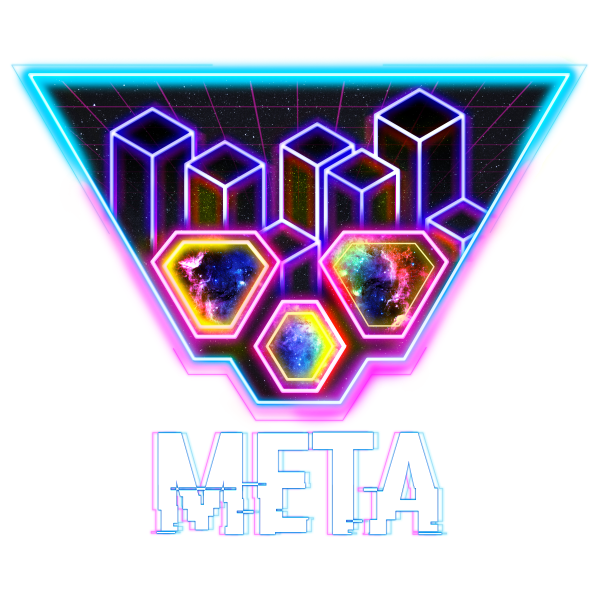
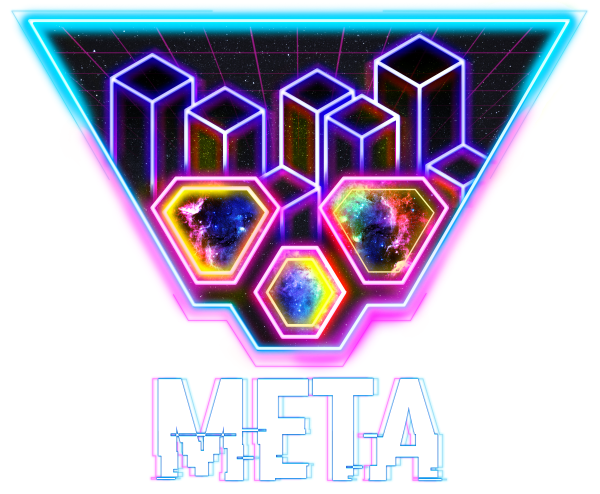
members v1

diff --git a/src/views/Trombi.vue b/src/views/Trombi.vue
@@ -1,0 +1,42 @@
+<template id="home">
+  <v-container fluid justify-content>
+    <img
+      alt="Meta logo"
+      src="@/assets/meta 600x600.png"
+      style="height: auto; width: min(100%, 200px)"
+      class="img_grow mt-4"
+    />
+    <v-row dense>
+      <v-col
+        align="center"
+        cols="12"
+        v-for="member in members"
+        :key="member.name"
+      >
+        <Member w="800px" h="100px" :member="member"></Member>
+      </v-col>
+    </v-row>
+  </v-container>
+</template>
+
+<script>
+import Member from "@/components/Member";
+
+export default {
+  name: "Trombi",
+  components: { Member },
+  data() {
+    return {
+      members: [
+        {
+          name: "Thomas",
+          role: "President",
+          picture: require("@/assets/pp/thomas.png"),
+          description:
+            "On ne le présente plus : Thomas, notre prez préféré. Au-delà de sa carrure insane et de son charisme incontestable, Thomas est avant tout un gros nounours qui fera tout son possible pour assurer le bien-être de tous. Très investi dans la vie associative, il a les épaules (littéralement) pour diriger le BDE d’une main de maître et améliorer la vie à l’ENSTA. Grâce à son expérience de prez BDA, il connaît déjà tous les rouages d’une présidence de bureau et sait comment gérer chaque situation en gardant la bonne humeur. ",
+        },
+      ],
+    };
+  },
+};
+</script>

diff --git a/src/components/Member.vue b/src/components/Member.vue
@@ -1,0 +1,50 @@
+<template>
+  <v-card :width="smallScreen ? `min(90%, ${w})` : w" class="mt-6" align="left">
+    <v-row no-gutters align="center">
+      <v-col fill-height cols="3">
+        <v-img class="img" :src="member.picture"></v-img>
+      </v-col>
+      <v-col>
+        <v-container>
+          <v-row no-gutters>
+            <v-col>
+              <v-card-title class="pb-0 pt-1 text-h5">{{
+                member.name
+              }}</v-card-title>
+            </v-col>
+            <v-col cols="4">
+              <span class="role"> {{ member.role }} </span>
+            </v-col>
+          </v-row>
+          <v-row no-gutters>
+            <v-card-text class="pt-0">
+              {{ member.description }}
+            </v-card-text>
+          </v-row>
+        </v-container>
+      </v-col>
+    </v-row>
+  </v-card>
+</template>
+
+<script>
+export default {
+  name: "Member",
+  props: ["w", "h", "member"],
+  computed: {
+    smallScreen() {
+      return this.$vuetify.breakpoint.smAndDown;
+    },
+    path() {
+      return "../assets/pp/" + this.member.picture + ".png";
+    },
+  },
+};
+</script>
+
+<style scoped>
+.role {
+  font-family: "hackedregular";
+  font-size: 2em;
+}
+</style>

diff --git a/src/components/LinkButton.vue b/src/components/LinkButton.vue
@@ -1,7 +1,13 @@
 <template>
   <router-link :to="to" class="item">
-    <v-btn outlined rounded class="btn">
-      <slot></slot>
+    <v-btn
+      outlined
+      rounded
+      class="btn"
+      :color="to != $route.path ? '#00bfff' : '#ff1493'"
+      elevation="10"
+    >
+      <slot class="txt"></slot>
     </v-btn>
   </router-link>
 </template>
@@ -13,24 +19,15 @@ export default {
 </script>
 
 <style scoped>
-a {
-  text-decoration: none;
-}
-
-a.router-link-exact-active {
-  color: #42b983;
-}
-
 .item {
   font-family: "hackedregular";
-  color: #2c3e50;
-  width: 2000px;
+  margin-inline: 15px;
+  margin-top: 5px;
 }
 
 .btn {
-  background-color: lightgrey;
-  border-color: yellow;
-  margin-inline: 5px;
-  margin-top: 5px;
+  background-color: rgba(211, 211, 211, 0.8);
+  border-color: #ff1493;
+  border-width: 1.25px;
 }
 </style>

diff --git a/src/router/index.js b/src/router/index.js
@@ -2,6 +2,8 @@ import Vue from 'vue'
 import VueRouter from 'vue-router'
 
 const Home = () => import('@/views/Home');
+const Trombi = () => import('@/views/Trombi');
+const Campaign = () => import('@/views/Campaign');
 // Error page
 const Error404 = () => import('@/views/error pages/404');
 
@@ -16,11 +18,11 @@ const router = new VueRouter({
 		},
 		{
 			path: '/members',
-			component: Error404,
+			component: Trombi,
 		},
 		{
 			path: '/campaign',
-			component: Error404,
+			component: Campaign,
 		},
     // ERROR pages
     {

diff --git a/src/views/error pages/404.vue b/src/views/error pages/404.vue
@@ -4,9 +4,9 @@
       alt="Meta logo"
       src="@/assets/meta_logo 600x600.png"
       style="height: auto; width: min(100%, 350px)"
-      class="mt-n4 img_grow"
+      class="img_grow mt-4"
     />
-    <v-card class="text-box mx-auto mt-n12 pt-4" max-width="700">
+    <v-card class="text-box mx-auto mt-6 pt-4" max-width="700">
       <v-card-title class="justify-center title"> Error 404 </v-card-title>
       <v-card-subtitle class="mt-1"
         ><p class="message">Oupsss... Cette page n'existe pas.</p>

diff --git a/src/App.vue b/src/App.vue
@@ -25,7 +25,7 @@ export default {
 
 <style>
 #app {
-  font-family: Roboto, hackedregular, Helvetica, Arial, sans-serif;
+  font-family: Roboto, "hackedregular", Helvetica, Arial, sans-serif;
   -webkit-font-smoothing: antialiased;
   -moz-osx-font-smoothing: grayscale;
   text-align: center;
@@ -48,7 +48,7 @@ body {
 }
 
 .img_grow {
-  transition: all 0.8s ease-in-out;
+  transition: transform 0.8s ease-in-out;
 }
 
 .img_grow:hover {

diff --git a/src/views/Home.vue b/src/views/Home.vue
@@ -3,8 +3,8 @@
     <img
       alt="Meta logo"
       src="@/assets/meta 600x600.png"
-      style="height: auto; width: min(100%, 500px)"
-      class="mt-n8 img_grow"
+      style="height: auto; width: min(100%, 470px)"
+      class="img_grow mt-4"
     />
   </v-container>
 </template>
@@ -30,6 +30,7 @@ body {
 
 <style scoped>
 .test {
+  display: none;
   font-family: "hackedregular", sans-serif;
   font-size: 2em;
 }

diff --git a/src/components/Header.vue b/src/components/Header.vue
@@ -1,7 +1,7 @@
 <template>
   <v-container class="pt-8">
     <link-button v-for="item in items" :to="item.route" :key="item.route">
-      {{ item.title }}
+      <span class="txt">{{ item.title }}</span>
     </link-button>
   </v-container>
 </template>
@@ -31,3 +31,9 @@ export default {
   },
 };
 </script>
+
+<style scoped>
+.txt {
+  text-shadow: -1px 0 black, 0 1px black, 1px 0 black, 0 -1px black;
+}
+</style>

diff --git a/src/views/Campaign.vue b/src/views/Campaign.vue
@@ -1,0 +1,20 @@
+<template id="home">
+  <v-container fluid justify-content>
+    <img
+      alt="Meta logo"
+      src="@/assets/meta 600x600.png"
+      style="height: auto; width: min(100%, 200px)"
+      class="img_grow mt-4"
+    />
+    <v-sheet width="700px"></v-sheet>
+  </v-container>
+</template>
+
+<script>
+export default {
+  name: "Campaign",
+};
+</script>
+
+<style scoped>
+</style>
